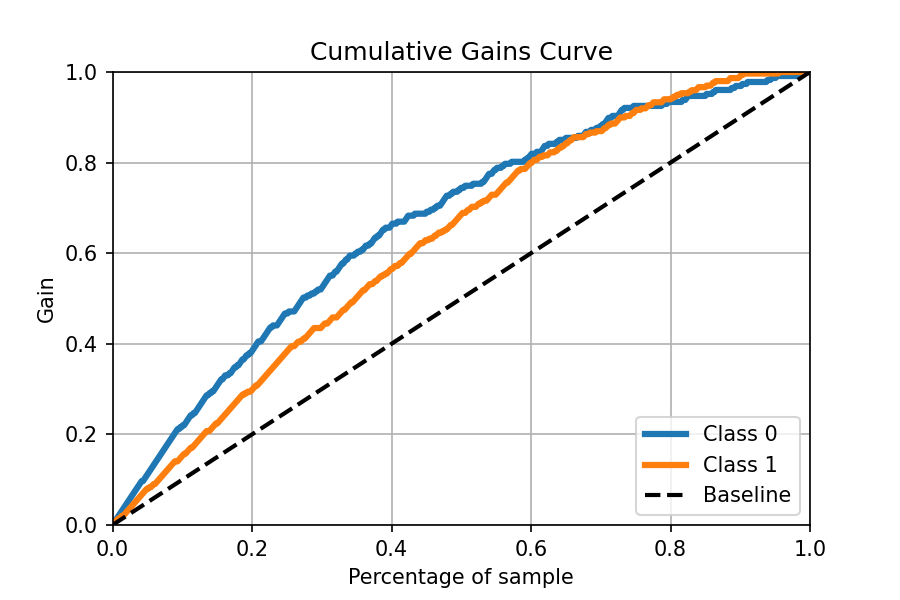
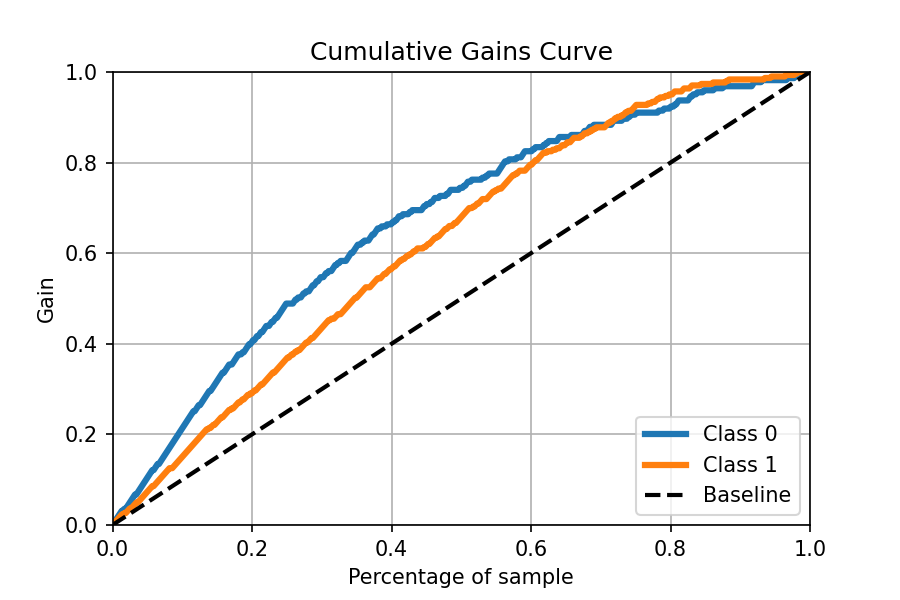
-

diff --git a/Project3/code/UrbanTrees_clf.py b/Project3/code/UrbanTrees_clf.py
@@ -103,7 +103,7 @@ print("Test set accuracy SVM with scaled data: {:.2f}".format(np.mean(score_kf_s
 
 # Random forests
 #Instantiate the model with 100 trees and entropy as splitting criteria
-Random_Forest_model = RandomForestClassifier(n_estimators=100,criterion="gini", random_state=1)
+Random_Forest_model = RandomForestClassifier(n_estimators=100,criterion="gini", random_state=5)
 score_kf_RF = np.zeros(n_splits)
 j=0
 for train_indices, test_indices in kf.split(x_scaled):
@@ -114,6 +114,7 @@ print("Test set accuracy Random Forest with scaled data: {:.2f}".format(np.mean(
 
 
 #%%
+np.random.seed(7)  
 x_train,x_test,y_train,y_test=splitter(x,y,test_size=0.3)   
 
 #Scale the data
@@ -126,21 +127,27 @@ x_scaled = scaler.transform(x)
 #Confusion matrix with Neural Network (normalized)
 dnn.fit(x_train_scaled, y_train)
 y_pred = dnn.predict(x_test_scaled)
-skplt.metrics.plot_confusion_matrix(y_test, y_pred, normalize=True)
-plt.title("MLP")
+fig = skplt.metrics.plot_confusion_matrix(y_test, y_pred, normalize=True)
+fig.plot()
+fig.set_title("MLP")
+fig.set_xticklabels(['coniferous','deciduous'])
+fig.set_yticklabels(['coniferous','deciduous'], rotation=90)
 plt.savefig("Results/Conf_matrix_NN.png",dpi=150)
 plt.show()
-y_probas = dnn.predict_proba(x_test_scaled)
-skplt.metrics.plot_roc(y_test, y_probas)
-plt.show()
-skplt.metrics.plot_cumulative_gain(y_test, y_probas)
-plt.show()
+# y_probas = dnn.predict_proba(x_test_scaled)
+# skplt.metrics.plot_roc(y_test, y_probas)
+# plt.show()
+# skplt.metrics.plot_cumulative_gain(y_test, y_probas)
+# plt.show()
 
 #Confusion matrix with Random Forest
 Random_Forest_model.fit(x_train_scaled, y_train)
 y_pred1 = Random_Forest_model.predict(x_test_scaled)
-skplt.metrics.plot_confusion_matrix(y_test, y_pred1, normalize=True)
-plt.title("RF")
+fig1 =skplt.metrics.plot_confusion_matrix(y_test, y_pred1, normalize=True)
+fig1.plot()
+fig1.set_title("RF")
+fig1.set_xticklabels(['coniferous','deciduous'])
+fig1.set_yticklabels(['coniferous','deciduous'], rotation=90)
 plt.savefig("Results/Conf_matrix_RF.png",dpi=150)
 plt.show()
 y_probas1 = Random_Forest_model.predict_proba(x_test_scaled)
@@ -154,43 +161,52 @@ plt.show()
 #Confusion matrix with SVM
 svm.fit(x_train_scaled, y_train)
 y_pred2 = svm.predict(x_test_scaled)
-skplt.metrics.plot_confusion_matrix(y_test, y_pred2, normalize=True)
-plt.title("SVM")
+fig2 = skplt.metrics.plot_confusion_matrix(y_test, y_pred2, normalize=True)
+fig2.plot()
+fig2.set_title("SVM")
+fig2.set_xticklabels(['coniferous','deciduous'])
+fig2.set_yticklabels(['coniferous','deciduous'], rotation=90)
 plt.savefig("Results/Conf_matrix_SVM.png",dpi=150)
 plt.show()
-y_probas2 = svm.predict_proba(x_test_scaled)
-skplt.metrics.plot_roc(y_test, y_probas2)
-plt.show()
-skplt.metrics.plot_cumulative_gain(y_test, y_probas2)
-plt.show()
+# y_probas2 = svm.predict_proba(x_test_scaled)
+# skplt.metrics.plot_roc(y_test, y_probas2)
+# plt.show()
+# skplt.metrics.plot_cumulative_gain(y_test, y_probas2)
+# plt.show()
 
 
 #Confusion matrix with Logistic
 logreg.fit(x_train_scaled, y_train)
 y_pred3 = logreg.predict(x_test_scaled)
-skplt.metrics.plot_confusion_matrix(y_test, y_pred3, normalize=True)
-plt.title("Logreg")
+fig3 =skplt.metrics.plot_confusion_matrix(y_test, y_pred3, normalize=True)
+fig3.plot()
+fig3.set_title("Logreg")
+fig3.set_xticklabels(['coniferous','deciduous'])
+fig3.set_yticklabels(['coniferous','deciduous'], rotation=90)
 plt.savefig("Results/Conf_matrix_Logreg.png",dpi=150)
 plt.show()
-y_probas3 = logreg.predict_proba(x_test_scaled)
-skplt.metrics.plot_roc(y_test, y_probas3)
-plt.show()
-skplt.metrics.plot_cumulative_gain(y_test, y_probas3)
-plt.show()
+# y_probas3 = logreg.predict_proba(x_test_scaled)
+# skplt.metrics.plot_roc(y_test, y_probas3)
+# plt.show()
+# skplt.metrics.plot_cumulative_gain(y_test, y_probas3)
+# plt.show()
 
 
 #Confusion matrix with Decision tree
 deep_tree_clf.fit(x_train_scaled, y_train)
 y_pred4 = deep_tree_clf.predict(x_test_scaled)
-skplt.metrics.plot_confusion_matrix(y_test, y_pred4, normalize=True)
-plt.title("DT")
+fig4 = skplt.metrics.plot_confusion_matrix(y_test, y_pred4, normalize=True)
+fig4.plot()
+fig4.set_title("DT")
+fig4.set_xticklabels(['coniferous','deciduous'])
+fig4.set_yticklabels(['coniferous','deciduous'], rotation=90)
 plt.savefig("Results/Conf_matrix_DT.png",dpi=150)
 plt.show()
-y_probas3 = logreg.predict_proba(x_test_scaled)
-skplt.metrics.plot_roc(y_test, y_probas3)
-plt.show()
-skplt.metrics.plot_cumulative_gain(y_test, y_probas3)
-plt.show()
+# y_probas3 = logreg.predict_proba(x_test_scaled)
+# skplt.metrics.plot_roc(y_test, y_probas3)
+# plt.show()
+# skplt.metrics.plot_cumulative_gain(y_test, y_probas3)
+# plt.show()
 
 
 
@@ -232,6 +248,24 @@ ax.set_title("Feature importances")
 ax.set_ylabel("Importance in %")
 fig.tight_layout()
 plt.savefig("Results/Feature_imporcance_RF.png",dpi=150)
+
+
+#%% TEST lazypredict
+
+from lazypredict.Supervised import LazyClassifier
+
+
+clf = LazyClassifier(custom_metric=None) 
+models,predictions = clf.fit(x_train_scaled, x_test_scaled, y_train, y_test)
+
+print(models)
+
+
+
+
+
+
+
 
 
 
